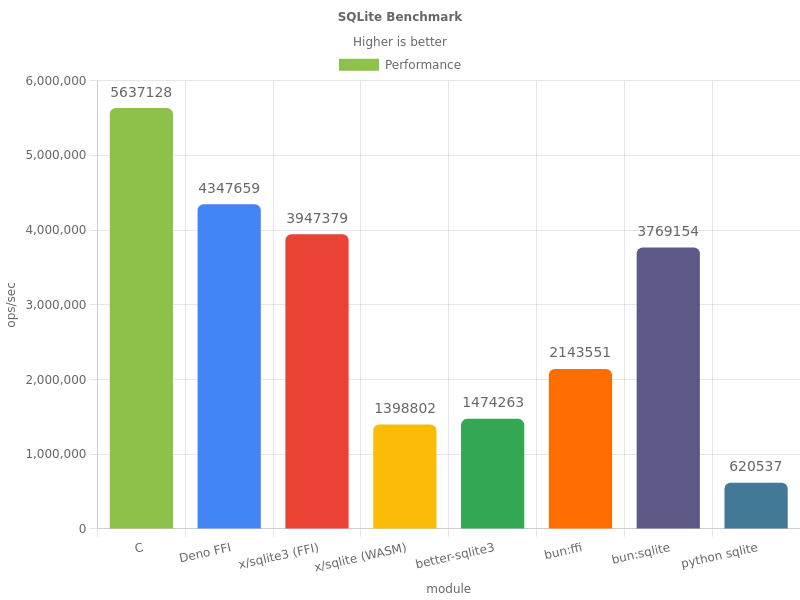
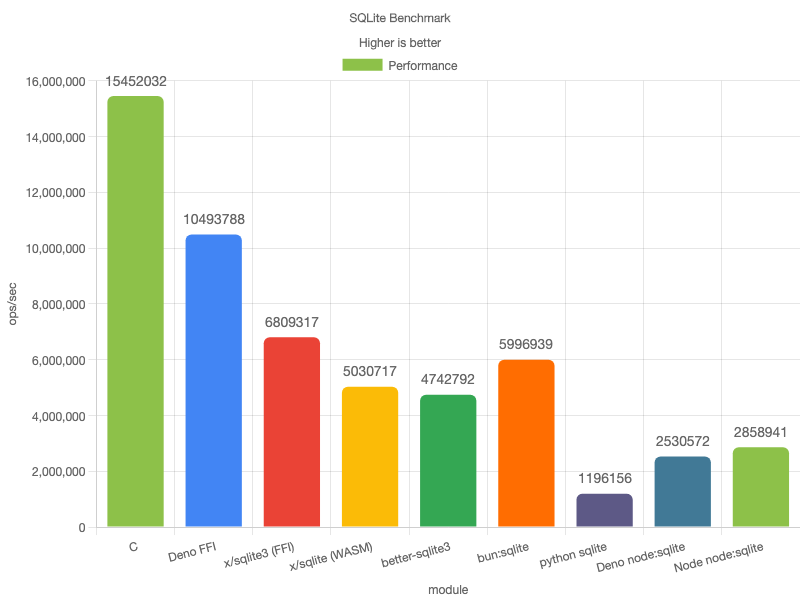
chore: add node:sqlite benchmarks for deno and node, remove bun:ffi benchmark since bun just crashes

diff --git a/bench/bench.js b/bench/bench.js
@@ -1,4 +1,4 @@
-import { createCanvas } from "https://deno.land/x/skia_canvas@0.5.2/mod.ts";
+import { createCanvas } from "jsr:@gfx/canvas@0.5.8";
 import "https://cdn.jsdelivr.net/npm/chart.js@3.9.1/dist/chart.min.js";
 import "https://cdn.jsdelivr.net/npm/chartjs-plugin-datalabels@2.0.0/dist/chartjs-plugin-datalabels.min.js";
 
@@ -6,13 +6,12 @@ Chart.register(ChartDataLabels);
 
 function $(name) {
   const lines = new TextDecoder().decode(
-    Deno.spawnSync(Deno.execPath(), {
+    new Deno.Command(Deno.execPath(), {
       args: ["task", name],
       env: {
         NO_COLOR: "1",
-      },
-      stdout: "piped",
-    }).stdout,
+      }
+    }).outputSync().stdout,
   )
     .split("\n")
     .map((line) => line.trim())
@@ -45,9 +44,17 @@ console.log("Running Bun benchmark...");
 const bunOut = $("bench-bun");
 console.log("Bun Avg:", bunOut);
 
-console.log("Running Bun FFI benchmark...");
-const bunFfiOut = $("bench-bun-ffi");
-console.log("Bun FFI Avg:", bunFfiOut);
+console.log("Running Deno Builtin benchmark...");
+const denoBuiltinOut = $("bench-deno-builtin");
+console.log("Deno Builtin Avg:", denoBuiltinOut);
+
+console.log("Running Node Builtin benchmark...");
+const nodeBuiltinOut = $("bench-node-builtin");
+console.log("Node Builtin Avg:", nodeBuiltinOut);
+
+// console.log("Running Bun FFI benchmark...");
+// const bunFfiOut = $("bench-bun-ffi");
+// console.log("Bun FFI Avg:", bunFfiOut);
 
 console.log("Running Python benchmark...");
 const pyOut = $("bench-python");
@@ -60,9 +67,11 @@ const data = {
     "x/sqlite3 (FFI)",
     "x/sqlite (WASM)",
     "better-sqlite3",
-    "bun:ffi",
+    // "bun:ffi",
     "bun:sqlite",
     "python sqlite",
+    "Deno node:sqlite",
+    "Node node:sqlite",
   ],
   datasets: [{
     label: "Performance",
@@ -72,9 +81,11 @@ const data = {
       denoOut,
       denoWasmOut,
       nodeOut,
-      bunFfiOut,
+      // bunFfiOut,
       bunOut,
       pyOut,
+      denoBuiltinOut,
+      nodeBuiltinOut,
     ],
     backgroundColor: [
       "#8dc149",

diff --git a/bench/bench_node.js b/bench/bench_node.js
@@ -1,5 +1,7 @@
 import process from "node:process";
-const db = require("better-sqlite3")(":memory:");
+import pkg from "better-sqlite3";
+
+const db = pkg(":memory:");
 
 db.exec("PRAGMA auto_vacuum = none");
 db.exec("PRAGMA temp_store = memory");

diff --git a/bench/bench_bun_ffi.js b/bench/bench_bun_ffi.js
@@ -18,7 +18,7 @@ const {
     sqlite3_column_int,
     sqlite3_errstr,
   },
-} = dlopen("build/libsqlite3.so", {
+} = dlopen("build/libsqlite3_aarch64.dylib", {
   sqlite3_open_v2: {
     args: [
       "ptr", // const char *filename
